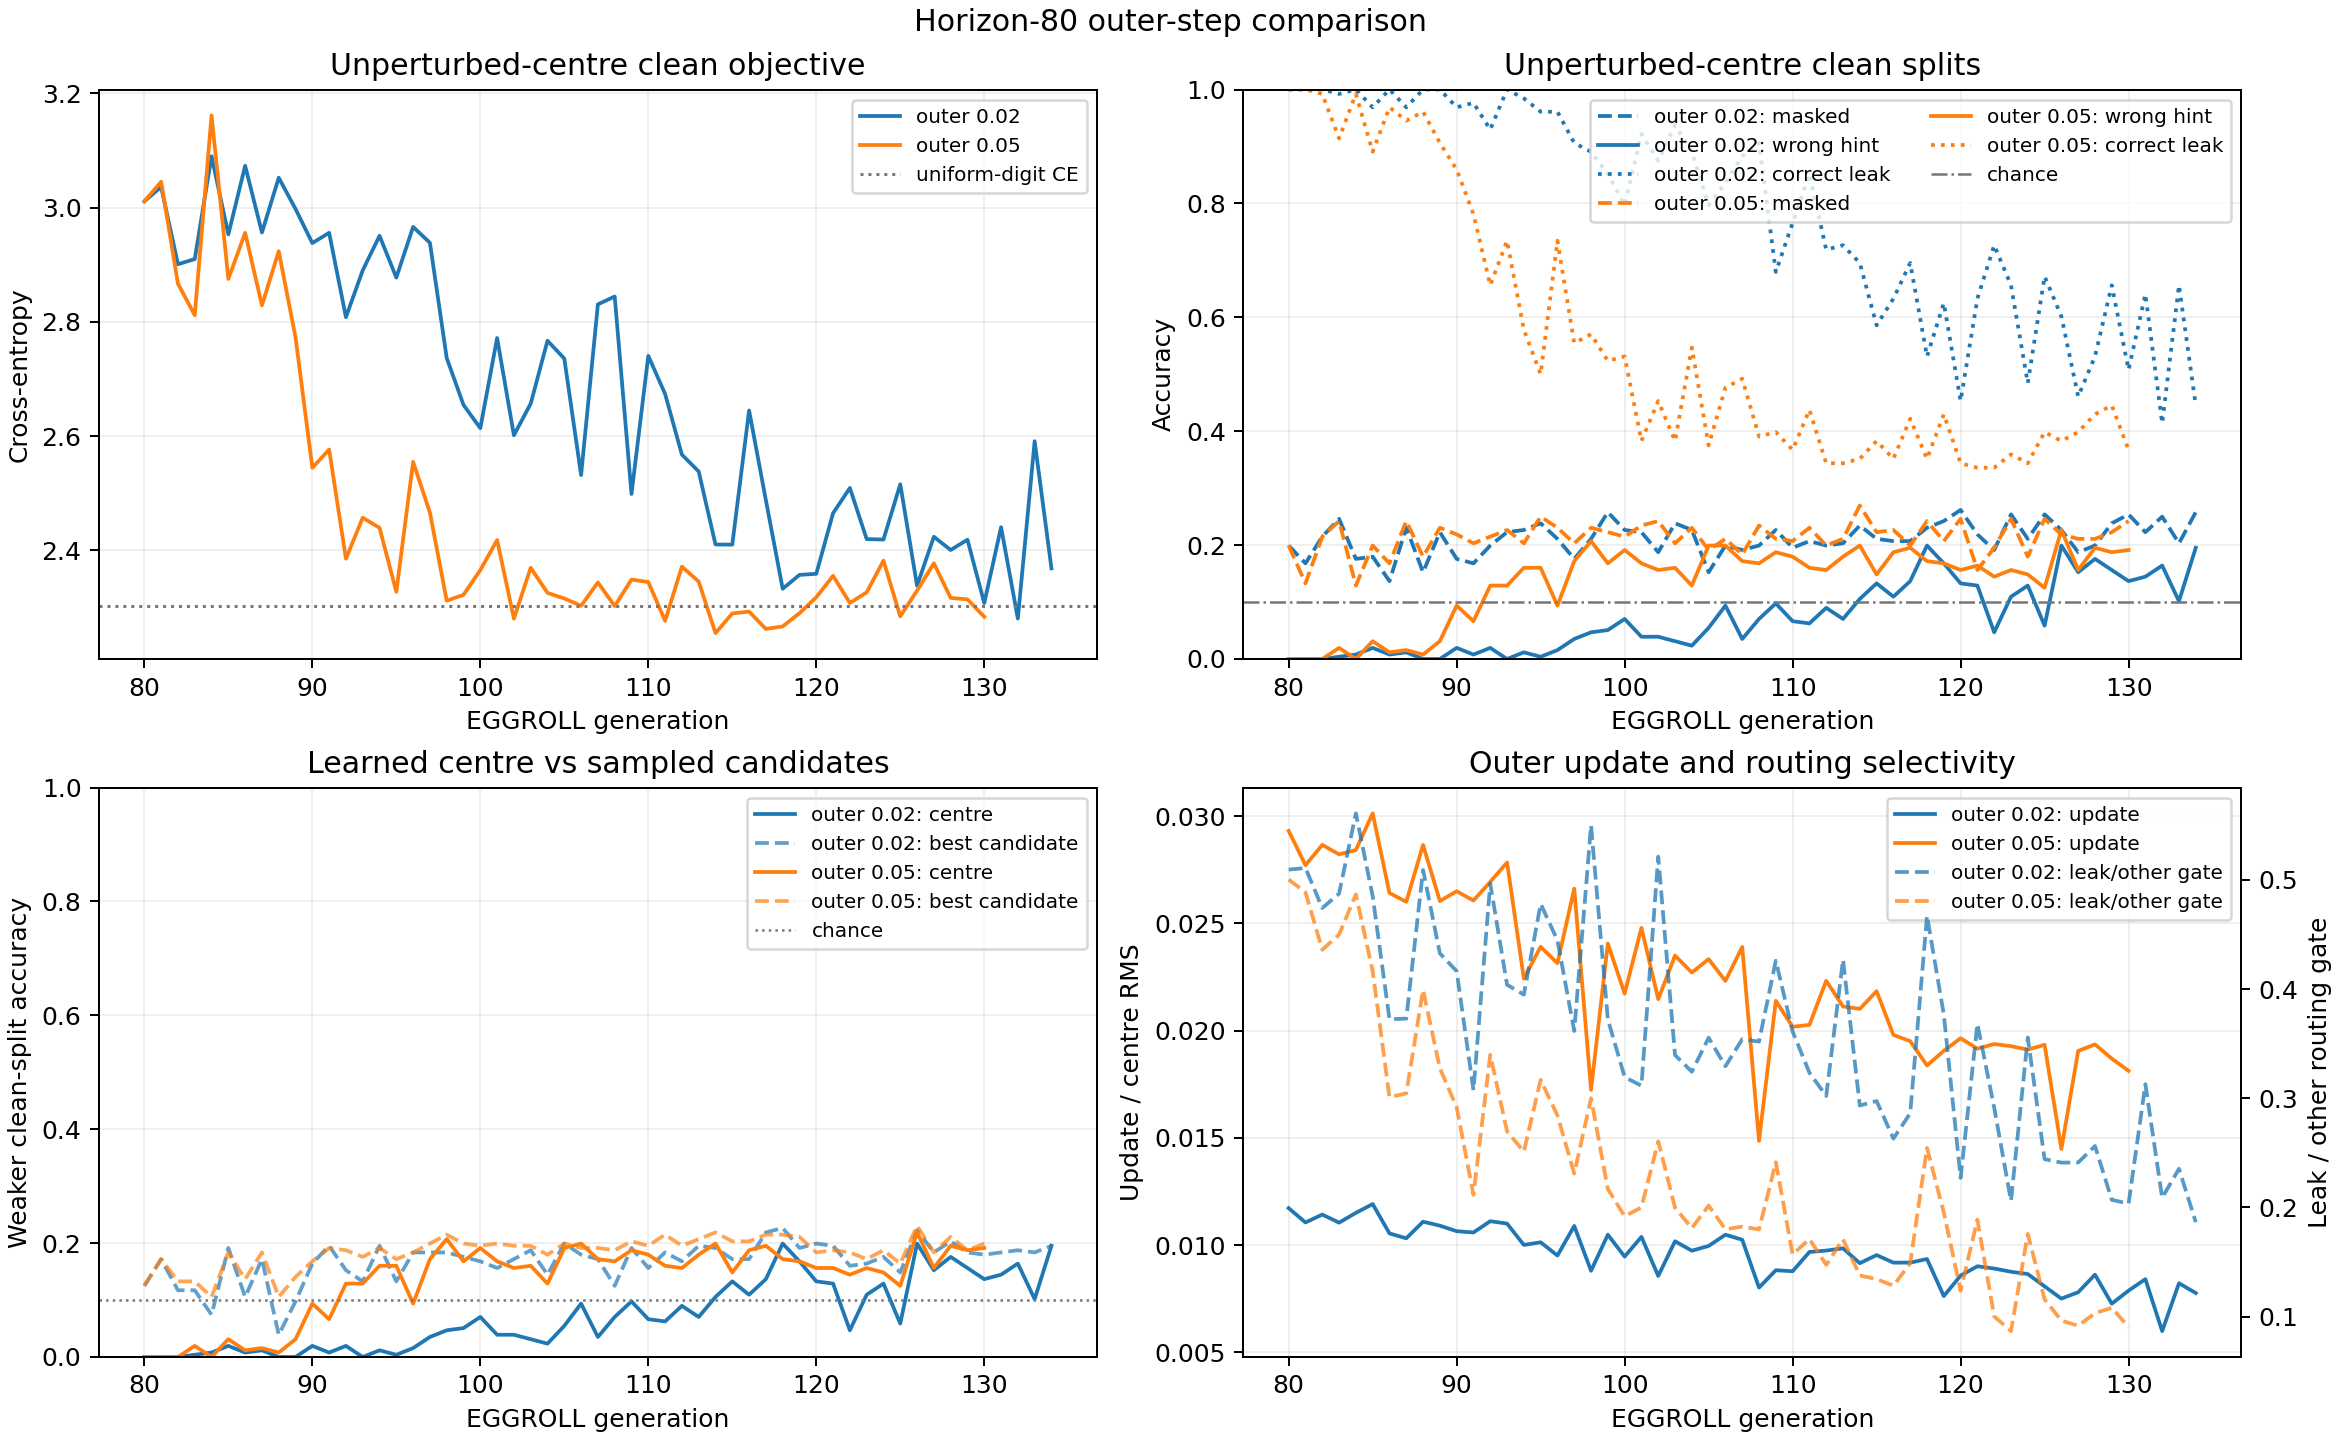
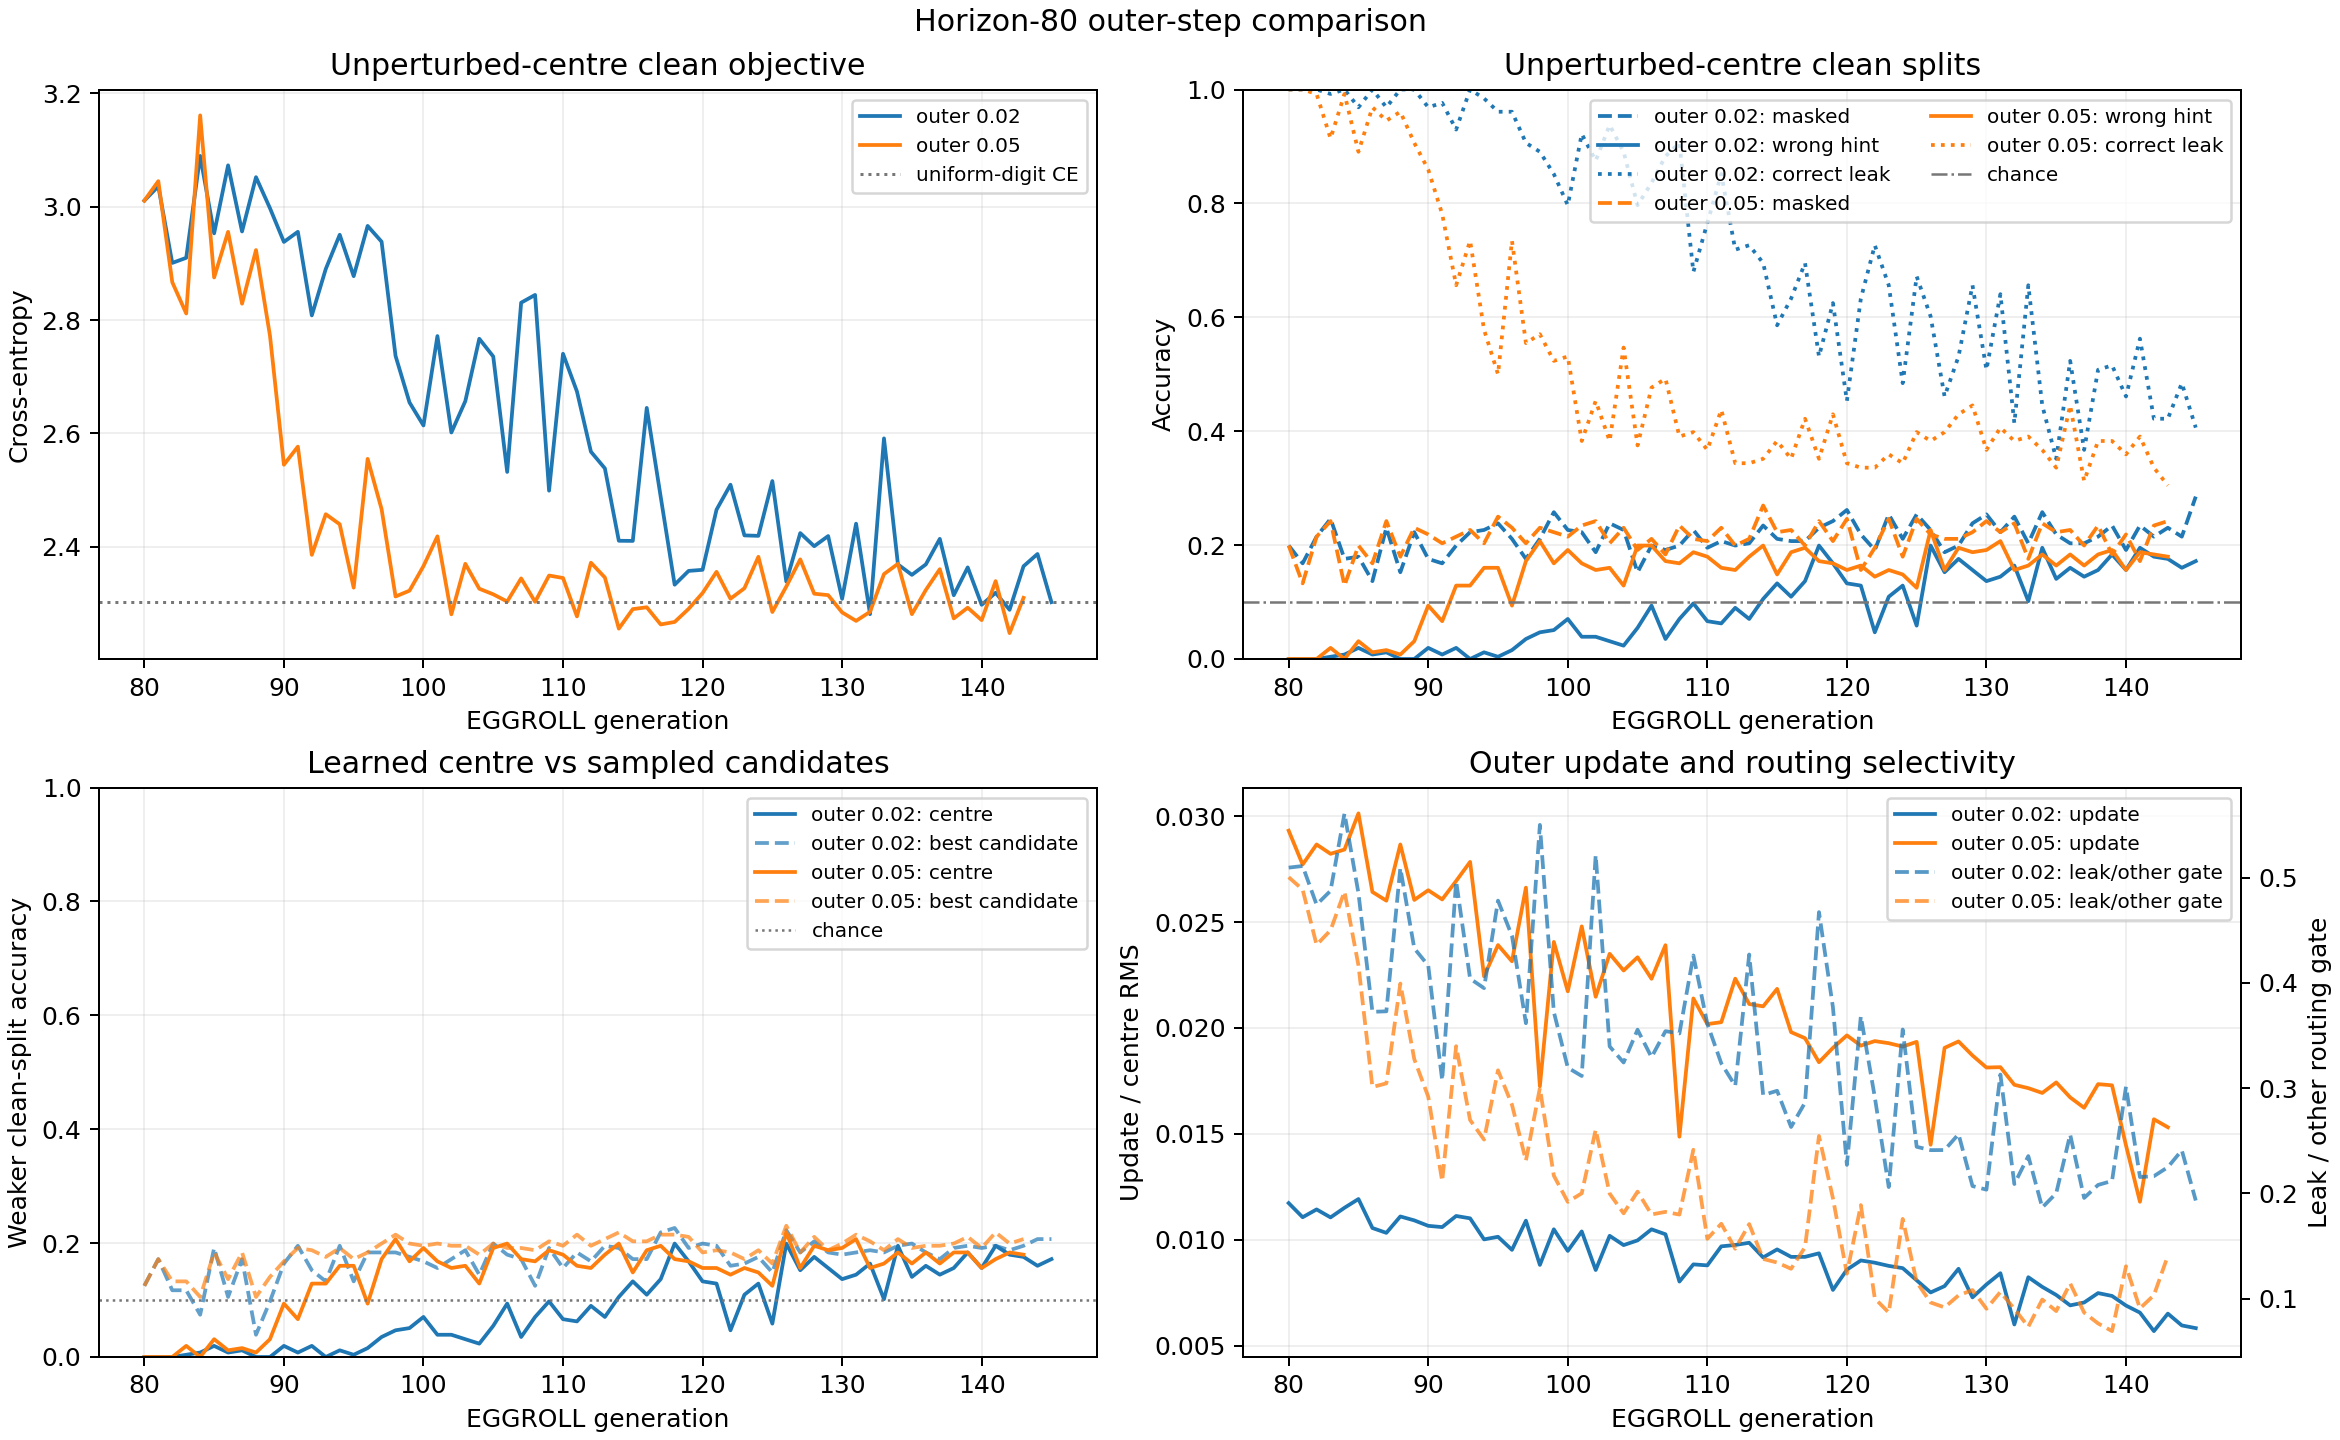
Record horizon 80 branch convergence

diff --git a/experiments/learned_backward_shortcuts/PROGRESS.md b/experiments/learned_backward_shortcuts/PROGRESS.md
@@ -1149,6 +1149,21 @@ correct-leak performance. Continuing both branches remains informative:
 medium tests whether aggressive suppression destabilizes, while conservative
 tests whether slower updates reach the same oracle range more cleanly.
 
+By generations 130-139, both branches are in the horizon-80 oracle range:
+
+| Generations 130-139 | Clean CE | Masked | Wrong hint | Correct leak | Minimum clean split | Robust candidate min | Centre leak ratio | Distinct predictions |
+| --- | ---: | ---: | ---: | ---: | ---: | ---: | ---: | ---: |
+| Conservative (`0.02`) | 2.3800 | 22.62% | 15.27% | 49.30% | 15.27% | 18.71% | 0.222 | 10.0 |
+| Medium (`0.05`) | 2.3090 | 21.84% | 17.89% | 37.73% | 17.81% | 20.04% | 0.089 | 9.8 |
+
+The weaker-split difference has narrowed to `2.54` percentage points.
+Conservative has improved in every window since generations 80-89 and now uses
+all ten output values throughout the window. Medium remains more selective and
+closer to its sampled-candidate ceiling, but its advantage is primarily speed:
+the two trajectories are approaching the same suppressive horizon-80
+solution. Both continue so later windows can test whether conservative retains
+better correct-leak and diversity behavior after convergence.
+
 ![Horizon-80 centre-step comparison](results/attention_router_center_step_comparison.png)
 
 #### Learned routing structure
